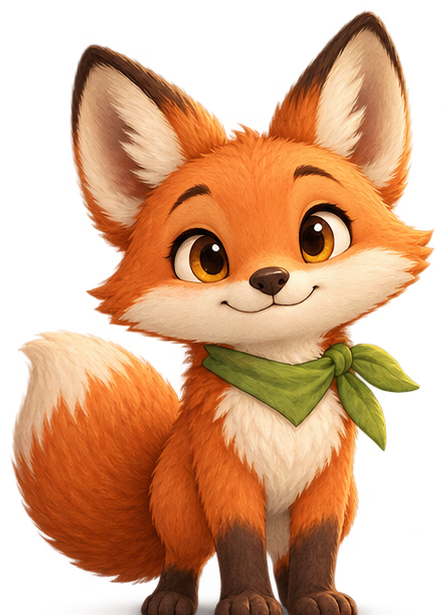
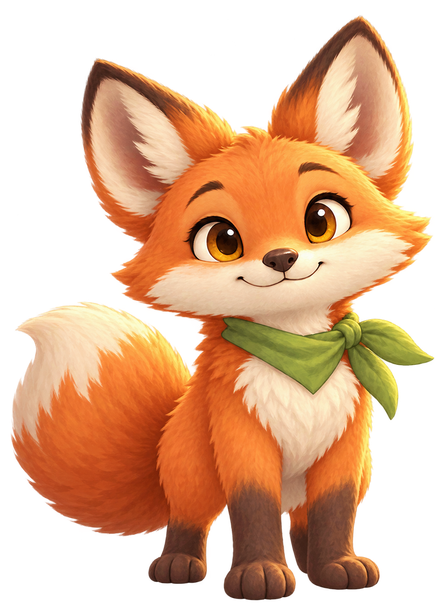
Refresh island art and animated interface

diff --git a/tools/test_web_preview.py b/tools/test_web_preview.py
@@ -315,7 +315,7 @@ def main() -> int:
                         # Cross at the center of the bridge, then approach the
                         # watering point from the south with timing margin for WebGL.
                         page.mouse.click(800, 600)
-                        for key, duration_ms in (("w", 600), ("d", 3_000), ("s", 650)):
+                        for key, duration_ms in (("w", 600), ("d", 3_000), ("s", 650), ("a", 350)):
                             page.keyboard.down(key)
                             page.wait_for_timeout(duration_ms)
                             page.keyboard.up(key)
@@ -346,7 +346,7 @@ def main() -> int:
                             raise AssertionError("The bottom-right control did not water the Q005 garden")
                         # Move into the first bloom's small pickup radius; each
                         # flower remains a distinct action rather than overlapping.
-                        for key, duration_ms in (("d", 250), ("w", 250), ("s", 150)):
+                        for key, duration_ms in (("d", 250), ("w", 250), ("s", 150), ("d", 220)):
                             page.keyboard.down(key)
                             page.wait_for_timeout(duration_ms)
                             page.keyboard.up(key)
@@ -379,9 +379,10 @@ def main() -> int:
                             raise AssertionError("Harvesting must leave the flower in its bed and wait for bouquet delivery")
 
                         for harvest_step in range(1, 3):
-                            page.keyboard.down("d")
-                            page.wait_for_timeout(200)
-                            page.keyboard.up("d")
+                            direction = "d" if harvest_step == 1 else "a"
+                            page.keyboard.down(direction)
+                            page.wait_for_timeout(200 if harvest_step == 1 else 400)
+                            page.keyboard.up(direction)
                             page.mouse.click(1_214, 662)
                             page.wait_for_timeout(500)
                             page.screenshot(

diff --git a/tools/test_optional_quest_browser.py b/tools/test_optional_quest_browser.py
@@ -253,7 +253,6 @@ def main() -> int:
                 # is approached on its own horizontal line, away from the gold.
                 move("w", 200)
                 move("a", 1_800)
-                move("a", 500)
                 interact()
                 verify(lambda save: save.get("q010_seeds_collected") == [True, False, False], "Q010 collect red seed")
                 move("d", 240)

diff --git a/docs/视觉设计规范.md b/docs/视觉设计规范.md
@@ -1,29 +1,31 @@
 # 奇趣小岛视觉设计规范
 
-## 美术方向
+## 主调
 
-定位为温暖、安静、适合亲子游玩的绘本探索游戏。场景采用柔和的手绘草木色与层叠海岸，角色使用带纸感笔触的原创插画；交互物保持清楚、易识别。避免高饱和荧光色、粗黑边、开发占位框和密集的常驻提示。
+「云海上的手绘奇趣群岛」：把浮空岛冒险地图的清晰结构、东方园林的水岸花木，以及绘本的温柔光色统一起来。场景细节丰富，但可操作对象和下一步目标必须始终容易辨认。
 
-## 色彩与材质
+## 场景
 
-- 草地：`#82C77C`；叶片和完成态：`#6C9A65`。
-- 河水：`#55B7CA`；岸线：`#F2D39B`。
-- 木材：暖棕 `#D5A468`；重要目标：柔和金 `#DBB66E`。
-- 界面底色：羊皮纸 `#FFF8E8`；正文：深苔绿 `#294438`；细线和次要文字：灰叶绿。
-- 面板采用浅色、细描边、小幅柔影；交互按钮保持足够大的触控区域。
+- 横向 16:9，左侧主岛、中央溪流与桥、右侧花园岛，沿用现有关卡交互坐标。
+- 背景以云海、青绿草地、石阶、苔石、樱花和溪水构成；中央活动空间留白，边缘承载植物和装饰。
+- 角色、桥和任务物件以独立图层绘制，背景不预埋任何可交互道具。
+- 主色为玉绿、青蓝、暖石金；花朵使用少量珊瑚粉、乳白与浅蓝点色。
 
-## 信息层级与布局
+## 界面
 
-1. 左上任务卡显示当前阶段、目标句和主线进度。
-2. 底部中央提示当前可执行的下一步。
-3. 右下按钮执行当前动作，玩家靠近目标后才高亮。
-4. 右下托盘只在当前流程需要物品时显示。
-5. 右侧未开放区域展示淡化的环境预览和简短解锁条件，不用整块灰色禁用区。
+- 左上羊皮纸任务手记显示阶段、任务目标与进度；底部提示条只说明当前可执行的一步。
+- 右下互动按钮与左下圆形移动盘维持固定位置，触屏时有清楚的触控反馈。
+- 面板采用暖白纸色、细金边和轻柔阴影；锁区直接展示环境，不再用虚线或空框占位。
+- 需要拖放时才出现托盘和落点提示，保持场景的观赏空间。
 
-## 动画原则
+## 动画
 
-角色待机使用轻呼吸与小幅摆动；移动使用轻弹步；水面和花叶使用缓慢循环；任务完成用短暂、轻柔的光圈和花瓣。所有动效服务于反馈，不遮挡任务文字和可操作物品。
+- 花叶、幼苗和角色用缓慢摆动与呼吸表现生命感；溪面有柔和流光，花瓣低速飘过。
+- 收集和任务切换使用短暂光圈与粒子，动画不覆盖操作提示，也不改变输入判定。
+- 环境循环保持轻、慢、低对比度，避免长期闪烁和分散注意力。
 
-## 当前落地与后续资产方向
+## 素材来源
 
-本轮已统一主界面的纸张色 UI、岛屿海岸与路径、锁区预览，并替换玩家及四位伙伴的占位角色。桥、木板、池塘、花圃和道具仍由 Godot 原生绘制；后续制作道具素材时应沿用温暖木纹、柔边石材和绘本植物笔触，避免再引入粗黑框或纯色调试块。
+- `assets/art/environment/floating-garden-bg.jpg`：基于用户提供的园林与农田参考图生成的游戏背景，并裁切到 1280×720。
+- `assets/art/characters/`：项目原创角色插画；之后应统一为手绘绘本质感，保留透明底和清楚剪影。
+- 任务道具目前由 Godot 原生绘制，后续美术替换需保持坐标、触控区域和落点逻辑分离。

diff --git a/assets/art/characters/README.md b/assets/art/characters/README.md
@@ -1,6 +1,6 @@
 # Character artwork
 
-The character cutouts in this folder were generated for *Wonder Isle* using OpenAI Image Generation on 2026-10-28, then cropped and resized in this repository.
+The character cutouts in this folder were generated and refined for *Wonder Isle* using OpenAI Image Generation on 2026-10-28, then cropped and resized in this repository to keep transparent margins and in-game proportions aligned.
 
 - `mouse.png` — playable island mouse
 - `rabbit.png` — bridge quest rabbit
@@ -8,4 +8,4 @@ The character cutouts in this folder were generated for *Wonder Isle* using Open
 - `turtle.png` — garden quest turtle
 - `bird.png` — birdhouse quest bird
 
-These are original generated images, not copied from an existing game or third-party asset pack. They may be modified and used in this project, including commercial releases, under the image-generation service terms. The original prompt sheets are not stored in the project; the cropped game-ready assets are the source of truth.
+These are original generated images, not copied from an existing game or third-party asset pack. The refinement uses a shared soft, hand-painted game illustration finish inspired by the project environment art. They may be modified and used in this project, including commercial releases, under the image-generation service terms. The original prompt sheets are not stored in the project; the cropped game-ready assets are the source of truth.
